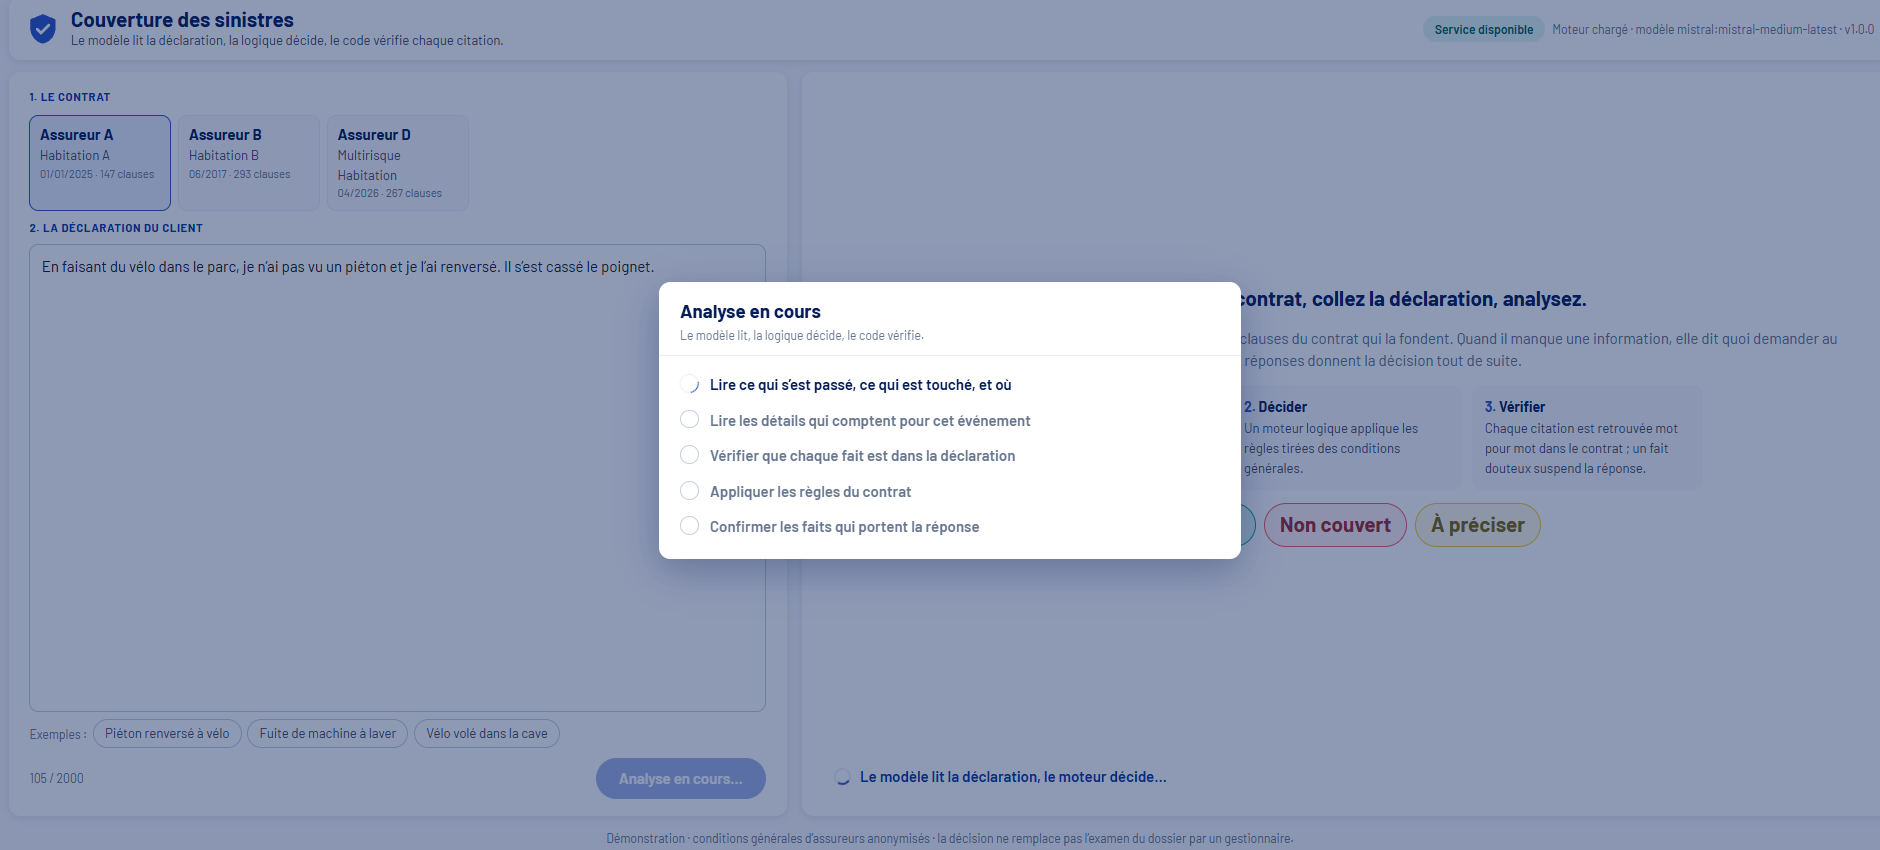
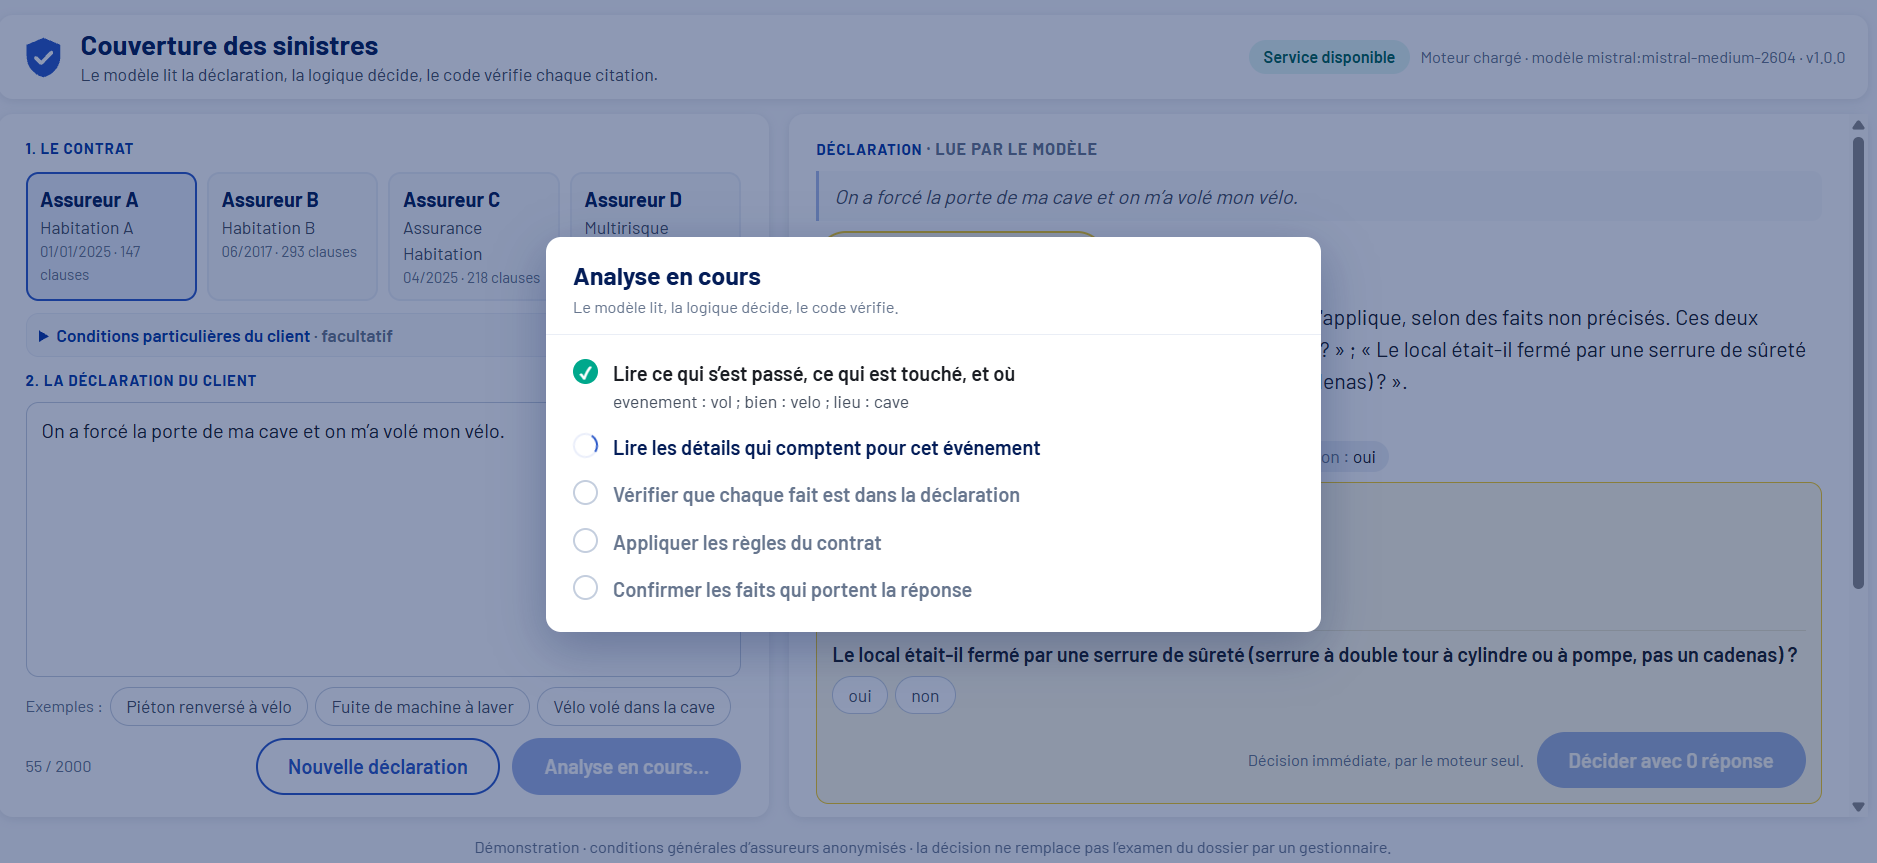
En ligne : le journal sort aussi sur la sortie standard ; documentation relue
- journal.py : avec COUVERTURE_JOURNAL_SORTIE, chaque ligne est aussi écrite
  en JSON sur la sortie standard, sans le texte du sinistre (7.163)
- Dockerfile : installation éditable, comme l'image en ligne
- README, EXPLICATIONS, guide du suivi : routes, code d'accès, anonymisation,
  nombre de tests, limites et suites ; DEMARCHE 7.162 et 7.163
- écran : les contrats sur une seule ligne ; capture du suivi refaite

Claude-Session: https://claude.ai/code/session_01E7UMt8md5apx6Rwf6nMozD

diff --git a/src/couverture/journal.py b/src/couverture/journal.py
@@ -8,11 +8,16 @@ Sert à trois choses, comme le journal des recherches de SortirIA (`app/search_l
 
 Le texte du sinistre n'est pas conservé : seulement sa longueur et les faits repérés
 (événement, bien, lieu). Une déclaration de sinistre peut contenir des données personnelles.
+
+En ligne (23/11/2026, DEMARCHE 7.163), la base vit dans le conteneur et repart de l'image à chaque réveil : le
+journal y serait perdu. Quand `COUVERTURE_JOURNAL_SORTIE` est défini (l'image en ligne le fait), chaque ligne
+est aussi écrite sur la sortie standard, en JSON, que l'hébergeur collecte. La même ligne, donc sans le texte.
 """
 
 from __future__ import annotations
 
 import json
+import os
 import sqlite3
 from datetime import datetime, timezone
 
@@ -31,6 +36,15 @@ CREATE TABLE IF NOT EXISTS analyses (
 );
 CREATE INDEX IF NOT EXISTS idx_analyses_date ON analyses(date);
 """
+COLONNES = ("date", "contrat_id", "methode", "juge", "decision", "decision_initiale", "decision_avant_relecture",
+            "confiance", "longueur", "evenement", "bien", "lieu", "citations_rejetees", "conditions_ecartees",
+            "contestations", "questions", "duree_ms", "erreur", "consignes")
+
+
+def sortie(ligne: dict) -> None:
+    """Écrit la ligne du journal sur la sortie standard, si `COUVERTURE_JOURNAL_SORTIE` est défini."""
+    if os.getenv("COUVERTURE_JOURNAL_SORTIE"):
+        print(json.dumps({"journal": "analyse", **ligne}, ensure_ascii=False), flush=True)
 
 
 class Journal:
@@ -60,13 +74,13 @@ class Journal:
         )
         with sqlite3.connect(self.chemin) as cx:
             cx.execute(f"INSERT INTO analyses VALUES ({','.join('?' * 19)})", ligne)
+        sortie(dict(zip(COLONNES, ligne, strict=True)))
 
     def noter_erreur(self, contrat_id: str, methode: str, erreur: str, date: datetime | None = None) -> None:
+        ligne = ((date or datetime.now(timezone.utc)).isoformat(timespec="seconds"), contrat_id, methode, erreur[:300])
         with sqlite3.connect(self.chemin) as cx:
-            cx.execute(
-                "INSERT INTO analyses (date, contrat_id, methode, erreur) VALUES (?,?,?,?)",
-                ((date or datetime.now(timezone.utc)).isoformat(timespec="seconds"), contrat_id, methode, erreur[:300]),
-            )
+            cx.execute("INSERT INTO analyses (date, contrat_id, methode, erreur) VALUES (?,?,?,?)", ligne)
+        sortie(dict(zip(("date", "contrat_id", "methode", "erreur"), ligne, strict=True)))
 
     def lignes(self, depuis: datetime, jusqua: datetime) -> list[dict]:
         with sqlite3.connect(self.chemin) as cx:

diff --git a/tests/test_pipeline.py b/tests/test_pipeline.py
@@ -320,6 +320,23 @@ def test_le_journal_ne_garde_pas_le_texte_du_sinistre(tmp_path):
     assert "Un sinistre" not in json.dumps(ligne) and ligne["longueur"] == len("Un sinistre décrit en une phrase.")
 
 
+def test_en_ligne_le_journal_sort_aussi_sur_la_sortie_standard(tmp_path, monkeypatch, capsys):
+    """En ligne la base du conteneur est perdue à chaque réveil : la même ligne, sans le texte, part aussi sur la
+    sortie standard, que l'hébergeur collecte. Hors ligne, rien n'est écrit."""
+    j = Journal(str(tmp_path / "b.sqlite"))
+    j.noter(resultat(), date=MAINTENANT)
+    assert capsys.readouterr().out == ""
+    monkeypatch.setenv("COUVERTURE_JOURNAL_SORTIE", "1")
+    j.noter(resultat(decision="INCERTAIN", questions=["La porte était-elle fermée à clé ?"]), duree_ms=4200, date=MAINTENANT)
+    j.noter_erreur("foyer", "conditions", "délai dépassé", date=MAINTENANT)
+    analyse, erreur = (json.loads(x) for x in capsys.readouterr().out.splitlines())
+    assert analyse["journal"] == "analyse" and analyse["decision"] == "INCERTAIN" and analyse["duree_ms"] == 4200
+    assert analyse["evenement"] == "vol" and "fermée à clé" in analyse["questions"] and analyse["consignes"]
+    assert "Un sinistre" not in json.dumps(analyse) and analyse["longueur"] == len("Un sinistre décrit en une phrase.")
+    assert erreur["erreur"] == "délai dépassé" and erreur["contrat_id"] == "foyer"
+    assert len(j.lignes(MAINTENANT - timedelta(days=1), MAINTENANT + timedelta(days=1))) == 3, "la base reçoit toujours tout"
+
+
 # --- Versionnage des consignes (garde-fou de la CI) -----------------------------------------------
 
 from couverture import consignes  # noqa: E402

diff --git a/README.md b/README.md
@@ -169,10 +169,11 @@ Pour des centaines de contrats, il faut donc une équipe de relecteurs du métie
 - Chez D, les **mesures de protection contre le vol** ne sont pas traduites : elles ne sont pas vérifiées.
 - Seuls des **PDF** de conditions générales sont lus. Un seul document est produit : la fiche d'analyse d'un sinistre, en PDF.
 - Les réponses attendues des jeux de référence ont été proposées par des modèles, puis arbitrées sur citations ; elles n'ont pas été validées par un juriste.
+- **En ligne**, la démonstration n'a pas d'utilisateurs réels. Son journal part dans les journaux de l'hébergeur, sans tableau de bord ni alerte ; le compteur d'analyses repart de zéro à chaque réveil du service ; le temps du premier chargement n'est pas mesuré.
 
 ## Démonstration en 5 minutes
 
-À répéter avant : `uv run couverture api` dans un terminal, `npm start` dans `frontend`, puis http://localhost:4220. La lecture varie d'un appel à l'autre : rejouer chaque étape une fois avant de la montrer.
+À répéter avant : `uv run couverture api` dans un terminal, `npm start` dans `frontend`, puis http://localhost:4220 ; ou la démonstration en ligne, avec son code d'accès (le premier chargement réveille le service : l'ouvrir avant de commencer). La lecture varie d'un appel à l'autre : rejouer chaque étape une fois avant de la montrer.
 
 | Temps | Ce qu'on montre | Ce qu'on dit |
 |---|---|---|
@@ -182,7 +183,7 @@ Pour des centaines de contrats, il faut donc une équipe de relecteurs du métie
 | 2:15 | Une déclaration incomplète (un vol sans dire comment le local était fermé) | « À préciser » : la question à poser, les réponses possibles ; la réponse du client donne la décision tout de suite, sans nouvel appel au modèle |
 | 3:00 | « Télécharger la fiche (PDF) » | Une page à verser au dossier : la décision, les articles cités, ce qu'il reste à demander |
 | 3:15 | La même déclaration sur Assureur B ou D | Autre contrat, autres règles, même moteur |
-| 3:45 | `uv run couverture regles --contrat assureur-a-habitation-2025` | Les règles se vérifient sans modèle : vocabulaire, 171 citations retrouvées mot pour mot |
+| 3:45 | `uv run couverture regles --contrat assureur-a-habitation-2025` | Les règles se vérifient sans modèle : vocabulaire, 173 citations retrouvées mot pour mot |
 | 4:15 | Le tableau des essais (section 5) | Ce qui a marché, ce qui a été retiré, et pourquoi |
 | 4:45 | Les limites (section 7) | Ce que le système ne sait pas faire |
 
@@ -208,6 +209,8 @@ COUVERTURE_MODELE_VERIFICATION=mistral-small-2603     # vérification et confirm
 ```
 
 **SWI-Prolog** (gratuit) : `winget install SWI-Prolog.SWI-Prolog` sous Windows, `apt install swi-prolog-nox` sous Linux.
+
+**Les noms des assureurs** sont masqués à l'ingestion d'après `data/contrats/noms.prive.json`, qui n'est pas versionné (modèle : `noms.exemple.json`). Sans ce fichier, seuls les courriels, les sites et les téléphones sont masqués.
 
 ## Utilisation
 
@@ -235,11 +238,14 @@ l'en-tête `x-api-key` (`COUVERTURE_API_KEY` dans `.env` ; sans elle, les routes
 |---|---|
 | `GET /api/v1/sante` | l'API, le moteur et le modèle répondent (publique) |
 | `GET /api/v1/contrats`, `/contrats/{id}`, `/contrats/{id}/clauses` | les contrats et leur texte |
+| `GET /api/v1/contrats/{id}/clauses/{clause}` | une seule clause : celle qu'une réponse cite |
 | `GET /api/v1/vocabulaire` | les faits que le moteur comprend |
 | `POST /api/v1/analyses` | une déclaration, et si on les a la formule et les options du client → couvert, non couvert ou incertain, avec les citations |
 | `POST /api/v1/analyses/suivi` | la même analyse, racontée étape par étape pendant qu'elle se fait (flux de lignes JSON) |
 | `POST /api/v1/decisions` | des faits → la décision, sans modèle (résout un « incertain ») |
 | `POST /api/v1/fiches` | une décision → sa fiche en PDF, à verser au dossier |
+
+**En ligne** (`COUVERTURE_CODE_ACCES` défini), trois choses changent. Le navigateur demande un code d'accès, qui tient lieu de clé. Le contrat entier ne se télécharge plus : la liste des clauses est fermée, et une clause ne se lit que si les règles la citent. Les analyses sont comptées (`COUVERTURE_LIMITE_JOUR`), puis refusées.
 
 ### L'interface
 
@@ -251,27 +257,28 @@ npm start                                                   # http://localhost:4
 
 Angular 21, sur le modèle de l'interface de SortirIA, aux couleurs du système de design public de foyer.lu. Le contrat,
 la déclaration, la décision avec ses clauses citées (l'article entier dans une fenêtre, au clic sur son numéro) ; pour
-« à préciser », les questions à poser au client, et ses réponses donnent la décision tout de suite. La clé de l'API reste côté serveur (`frontend/proxy.conf.mjs`).
+« à préciser », les questions à poser au client, et ses réponses donnent la décision tout de suite. En local, la clé de l'API reste côté serveur (`frontend/proxy.conf.mjs`) ; en ligne, l'API sert elle-même l'écran et demande le code d'accès.
 
 Une réponse « incertain » dit, dans `a_preciser`, quoi demander au client ; ses réponses, ajoutées aux `faits` de la
 réponse, se soumettent à `/decisions` : décision immédiate, gratuite, déterministe.
 
 `analyser` donne la décision, le motif, les preuves, les questions à poser et l'**arbre de preuve** du moteur. Autres commandes : `contrats`, `clauses`, `versions`, `modele` (`--help`).
 
-Avec docker : `docker compose up -d --build` lance l'API (8021) et Grafana (3011). L'image de la démonstration en ligne (l'écran et l'API dans un seul conteneur, un code d'accès, une limite d'analyses par jour) se construit avec `deploiement/Dockerfile` ; son en-tête dit comment.
+Avec docker : `docker compose up -d --build` lance l'API (8021) et Grafana (3011). L'image de la démonstration en ligne (l'écran et l'API dans un seul conteneur, un code d'accès, une limite d'analyses par jour) se construit avec `deploiement/Dockerfile` ; son en-tête dit comment. En ligne, chaque analyse écrit aussi sa ligne de journal sur la sortie standard, sans le texte du sinistre : `az containerapp logs show` la relit.
 
 ## Arborescence
 
 ```
 src/couverture/      le code : lecture.py (le modèle lit), prolog.py (le moteur décide), chaine.py (la réponse), fiche.py (le PDF),
                      redaction/ (Mistral Large rédige les règles), banc.py, exemples.py, cli/ et api/ (une
-                     commande, une route par fichier), découpage des contrats, base
+                     commande, une route par fichier), découpage des contrats, anonymisation.py (les noms masqués), base
 regles/              moteur Prolog, règles par contrat, vocabulaire (commun.json + un fichier par contrat), faits idéaux des cas
 data/contrats/       conditions générales, catalogue.json, SOURCES.md (liens des CG réelles)
 data/golden/         le golden set : sinistres, réponses attendues, version figée
 config/              manifeste des versions des consignes
 docs/                explications, démarche, métriques, archive des consignes
 monitoring/          Grafana et guide du suivi
+deploiement/         l'image de la démonstration en ligne : l'écran et l'API dans un seul conteneur
 tests/               tests (pytest), sans clé ni réseau ; un second moteur en Python pour le test différentiel
 ```
 

diff --git a/docs/DEMARCHE.md b/docs/DEMARCHE.md
@@ -4718,6 +4718,14 @@ La section « Tenir des centaines de contrats » est réécrite d'après ce qui 
 
 **Retouche de l'écran.** Les contrats sur une seule ligne, à parts égales ; sous 110 px par carte la ligne défile.
 
+### 7.163 Après la mise en ligne : le journal, l'ancienne image, la documentation
+
+**Le journal était perdu en ligne.** Il s'écrit dans la base, et la base du conteneur repart de l'image à chaque réveil : aucune trace de ce que font les visiteurs, alors que le suivi est ce que je raconte de SortirIA. La règle : quand `COUVERTURE_JOURNAL_SORTIE` est défini (l'image en ligne le fait), chaque ligne du journal est aussi écrite sur la sortie standard, en JSON, que l'hébergeur collecte. C'est la même ligne : toujours sans le texte du sinistre. Un test le vérifie, et vérifie qu'hors ligne rien n'est écrit. Ce n'est pas un tableau de bord : les lignes se relisent avec `az containerapp logs show`, sans requête ni alerte.
+
+**L'ancienne image.** Le `Dockerfile` de `docker compose` installait le paquet par `pip install .` : même défaut que celui trouvé en 7.161. Corrigé de la même façon (installation éditable). À vérifier sur le poste par `docker compose up -d --build` : non exécuté ici.
+
+**La documentation relue.** Le README, `EXPLICATIONS.md` et le guide du suivi décrivaient le projet d'avant la mise en ligne : routes, clé et code d'accès, arborescence, nombre de tests, « déployer pour avoir une URL » parmi les suites. Corrigés. `EXPLICATIONS.md` n'a été relu en entier nulle part ailleurs que sur ces passages : son en-tête le dit, et renvoie au README en cas d'écart.
+
 ## 8. Ce qui reste à faire
 
 Tenu à jour le 22 nov. 2026 ; ce qui est fait est dans les sections 7.
@@ -4921,3 +4929,4 @@ Tenu à jour le 22 nov. 2026 ; ce qui est fait est dans les sections 7.
 155. Avant d'étendre une règle à d'autres contrats, comparer les décisions avant et après sur des faits tirés au hasard : c'est ce qui a montré qu'elle était fausse.
 157. Mettre en ligne change qui peut appeler quoi : relire chaque route en se demandant ce qu'elle donne à un inconnu, avant de choisir l'hébergeur.
 158. Un message d'erreur exact sur l'effet peut tromper sur la cause : « clé non configurée » voulait dire « fichier d'environnement vide ».
+159. Ce qu'on écrit dans un fichier du conteneur disparaît avec lui : en ligne, ce qui doit rester sort par la sortie standard ou par un service.

diff --git a/monitoring/README.md b/monitoring/README.md
@@ -10,10 +10,23 @@ docker compose up -d --build
 
 | Service | Adresse | Rôle |
 |---|---|---|
-| API | http://localhost:8021/docs | L'API (clé `COUVERTURE_API_KEY`) ; lit `data/contrats` au démarrage |
+| API | http://localhost:8021/docs | L'API (clé `COUVERTURE_API_KEY`) ; lit `data/contrats` au démarrage, et y masque les noms si `noms.prive.json` s'y trouve |
 | Grafana | http://localhost:3011 | Tableaux de bord (identifiant `admin`, mot de passe `GRAFANA_ADMIN_PASSWORD` du `.env`) |
 
 Les ports évitent ceux de SortirIA (3001, 8010) : les deux projets peuvent tourner en même temps.
+
+## En ligne (23 nov. 2026)
+
+La démonstration tourne sur Azure Container Apps, dans une autre image (`deploiement/Dockerfile`), sans Grafana. Ce qui change pour le suivi :
+
+| | En local | En ligne |
+|---|---|---|
+| Journal | table `analyses` de `data/base.sqlite` | la même table, **perdue à chaque réveil du service** (la base repart de l'image) ; et la même ligne sur la sortie standard, que l'hébergeur garde |
+| Où le lire | Grafana | `az containerapp logs show -n couverture-demo -g sortiria-rg --tail 100` (lignes `{"journal": "analyse", …}`) |
+| Texte du sinistre | jamais noté | jamais noté |
+| Frein à la dépense | aucun | `COUVERTURE_LIMITE_JOUR` analyses par jour, compte remis à zéro à chaque réveil ; le vrai plafond est chez le fournisseur du modèle |
+
+Ce qui manque en ligne : un tableau de bord sur ces lignes (aucune requête n'est écrite dans les journaux de l'hébergeur), et une alerte.
 
 ## Les couches
 
